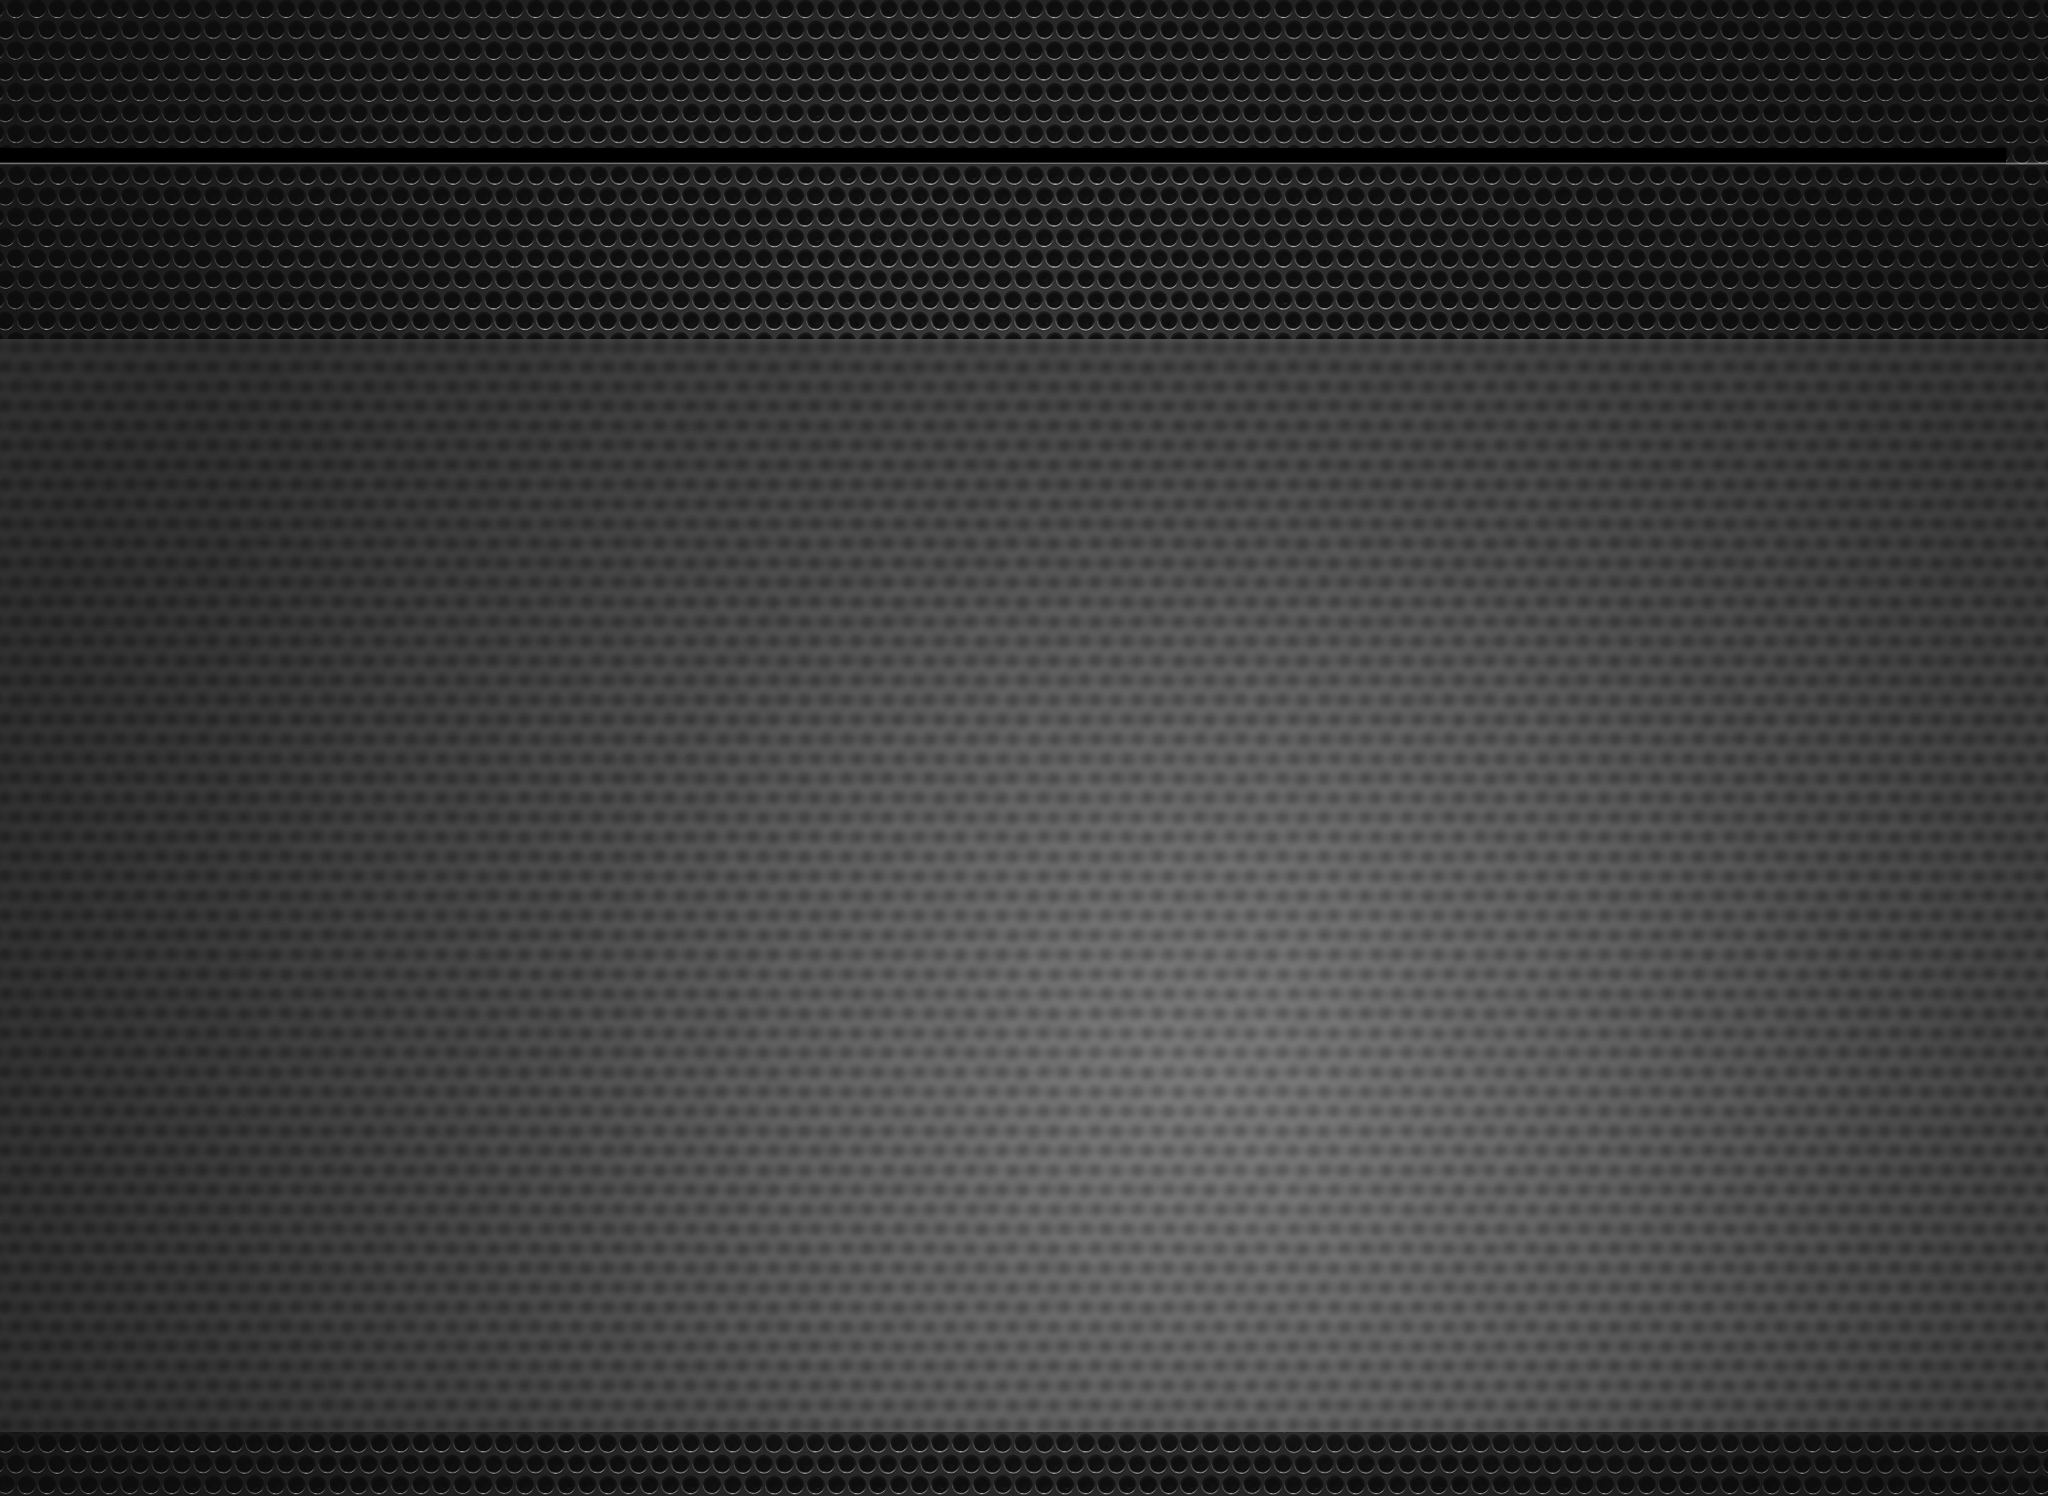
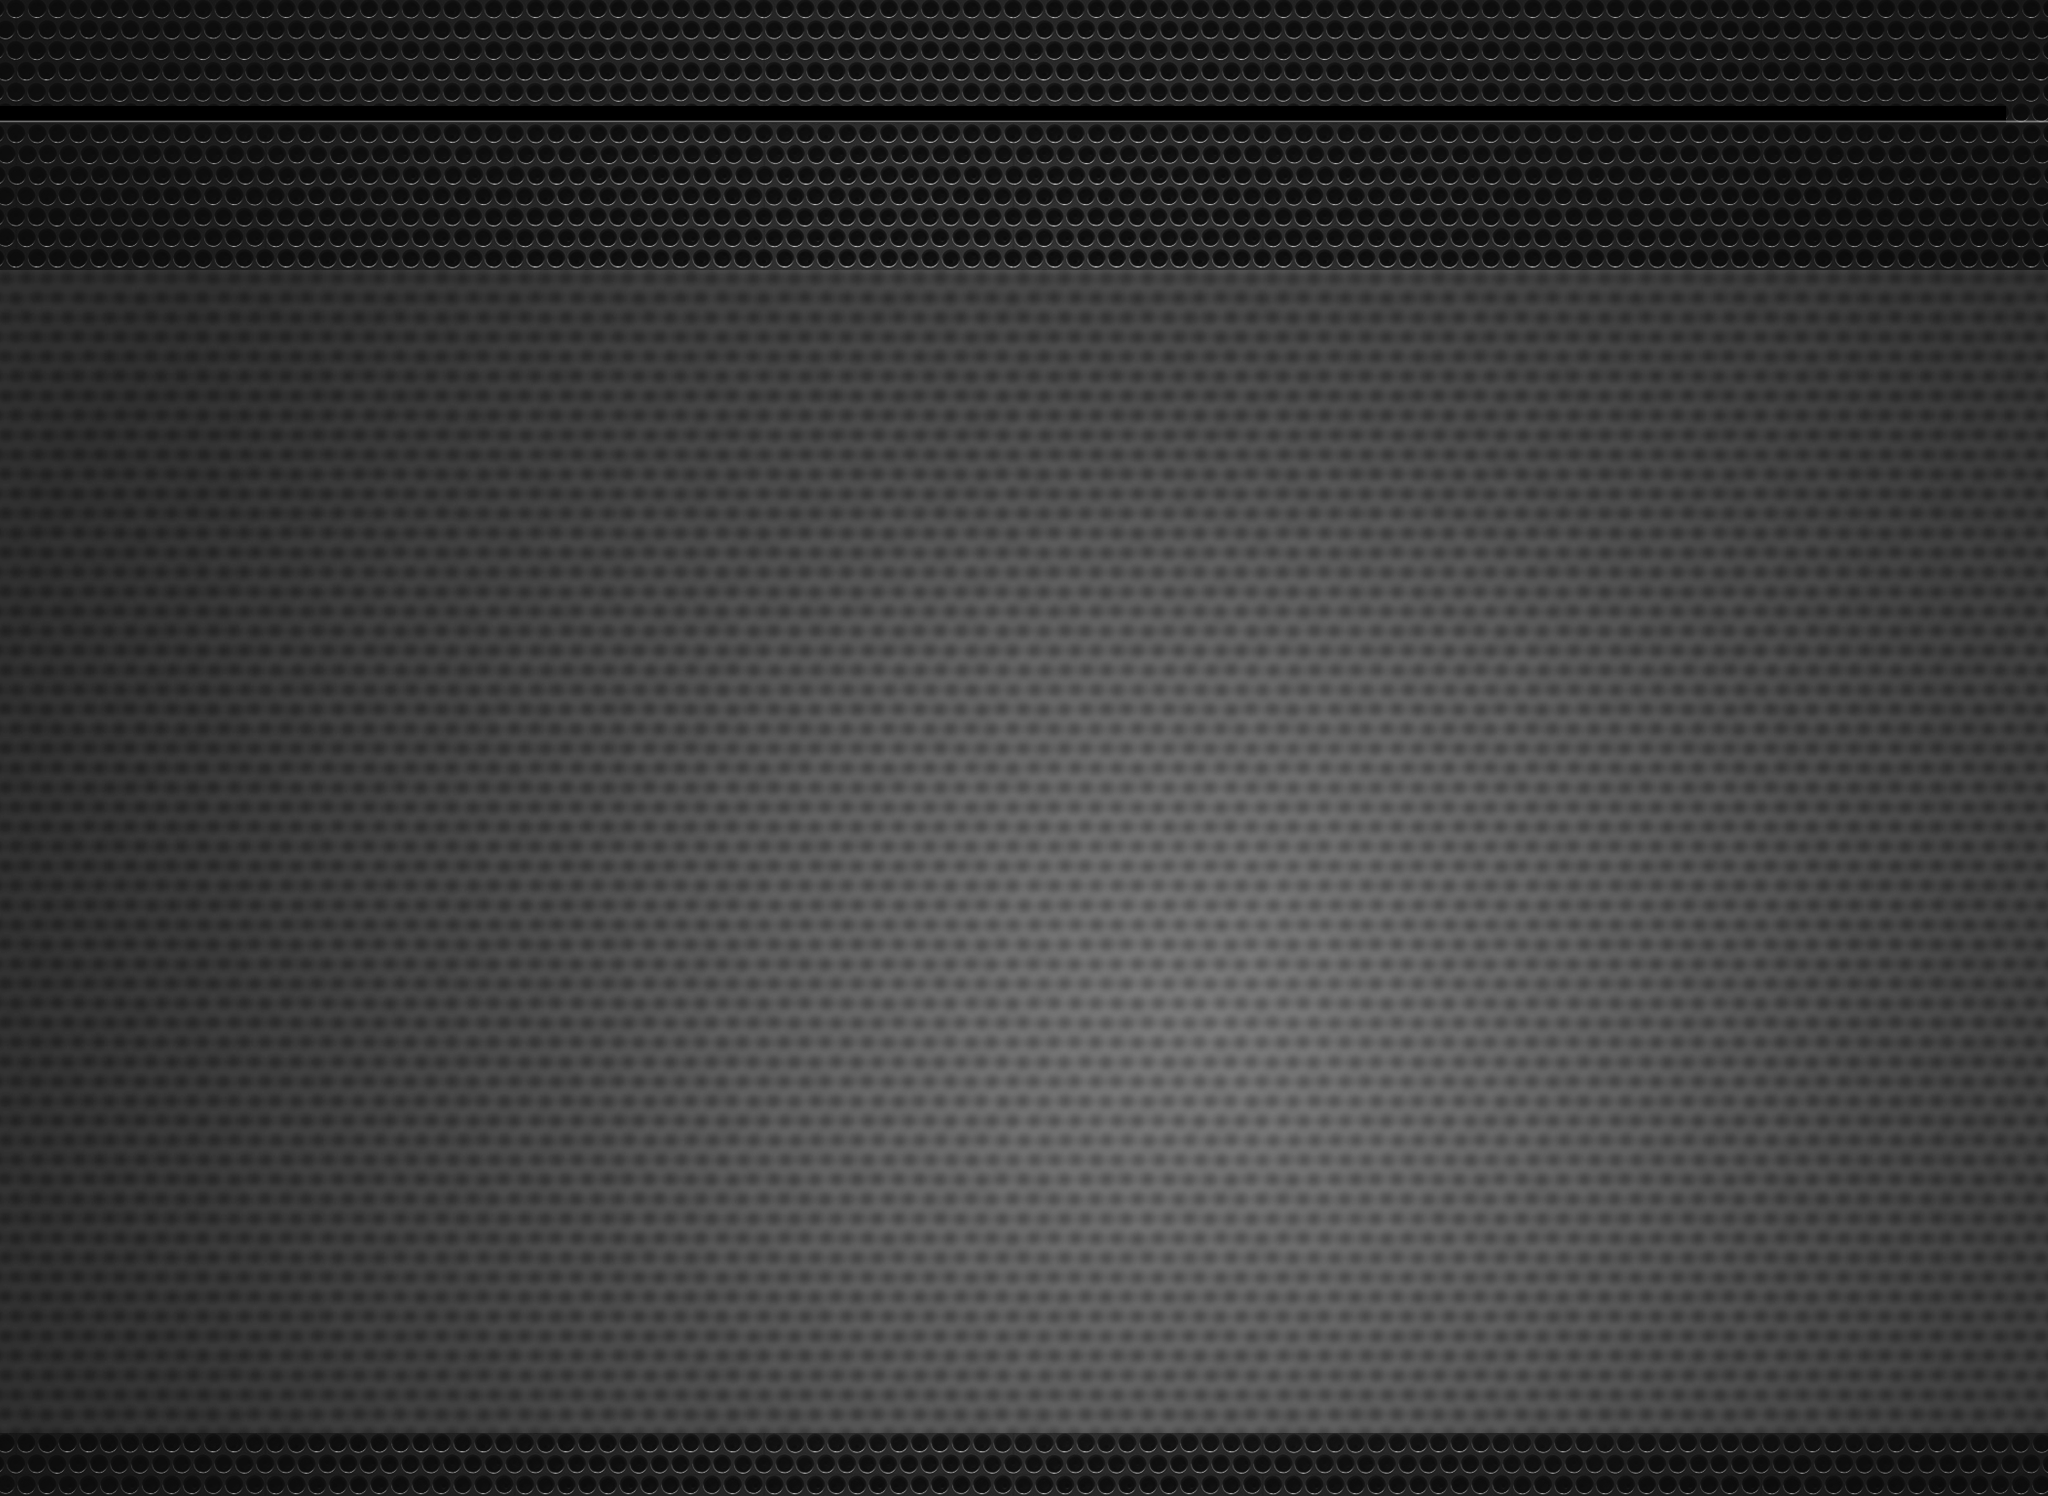
image updates

Changed region(s): [[0.0, 0.1537, 1.0, 0.246], [0.0625, 0.0615, 0.9375, 0.123], [0.625, 0.7995, 0.6562, 0.8302]]

diff --git a/AirShare2/MenuViewController.m b/AirShare2/MenuViewController.m
@@ -29,6 +29,13 @@
 	// Do any additional setup after loading the view.
     [self.usersTable setSeparatorStyle:UITableViewCellSeparatorStyleNone];
     _usersTable.backgroundColor = [UIColor clearColor];
+    if(!IS_PHONE) {
+        [self.background setImage:[UIImage imageNamed:@"BGIpad.png"]];
+    } else if(IS_IPHONE_5) {
+        [self.background setImage:[UIImage imageNamed:@"metalHolesIP5.png"]];
+    } else {
+        [self.background setImage:[UIImage imageNamed:@"metalHolesIP5.png"]];
+    }
     _connectedUsersLabel.font = [UIFont fontWithName:@"CenturyGothicStd-Bold" size:17.0f];
     _sepeartorImageView.backgroundColor = [UIColor blackColor];
 }

diff --git a/AirShare2/MenuViewController.h b/AirShare2/MenuViewController.h
@@ -13,6 +13,7 @@
 
 @interface MenuViewController : UIViewController <UITableViewDataSource>
 
+@property (strong, nonatomic) IBOutlet UIImageView *background;
 @property (weak, nonatomic) IBOutlet UITableView *usersTable;
 @property (weak, nonatomic) IBOutlet UILabel *connectedUsersLabel;
 @property (weak, nonatomic) IBOutlet UIButton *syncButton;
